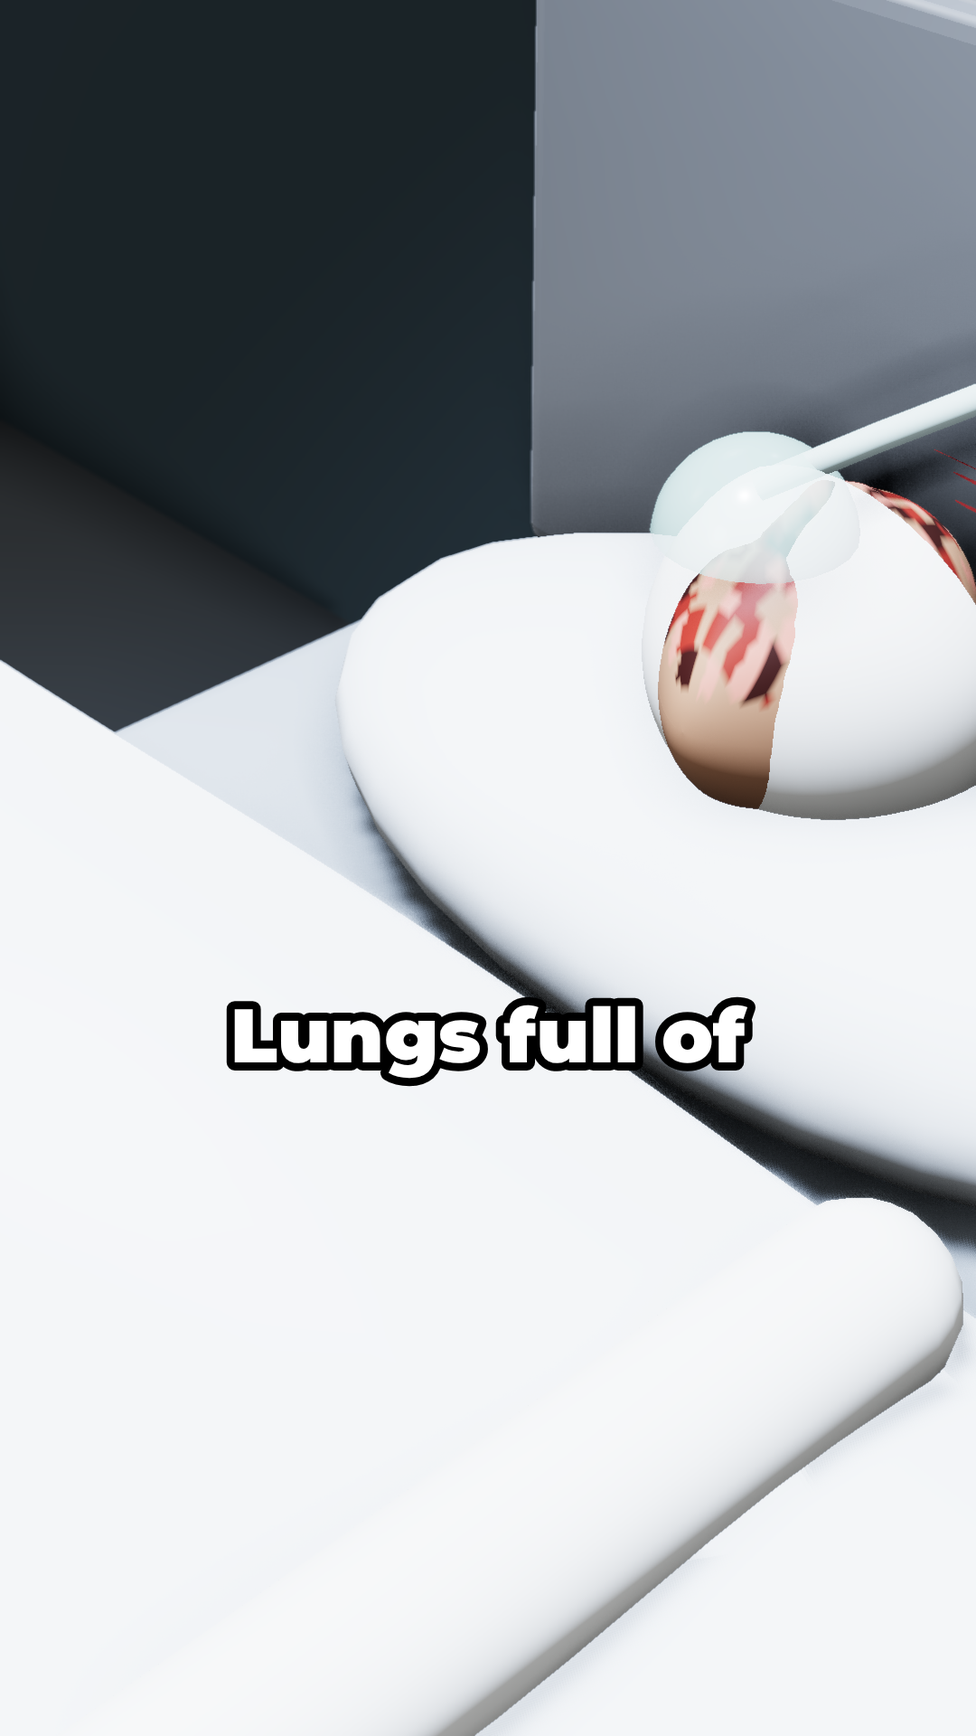
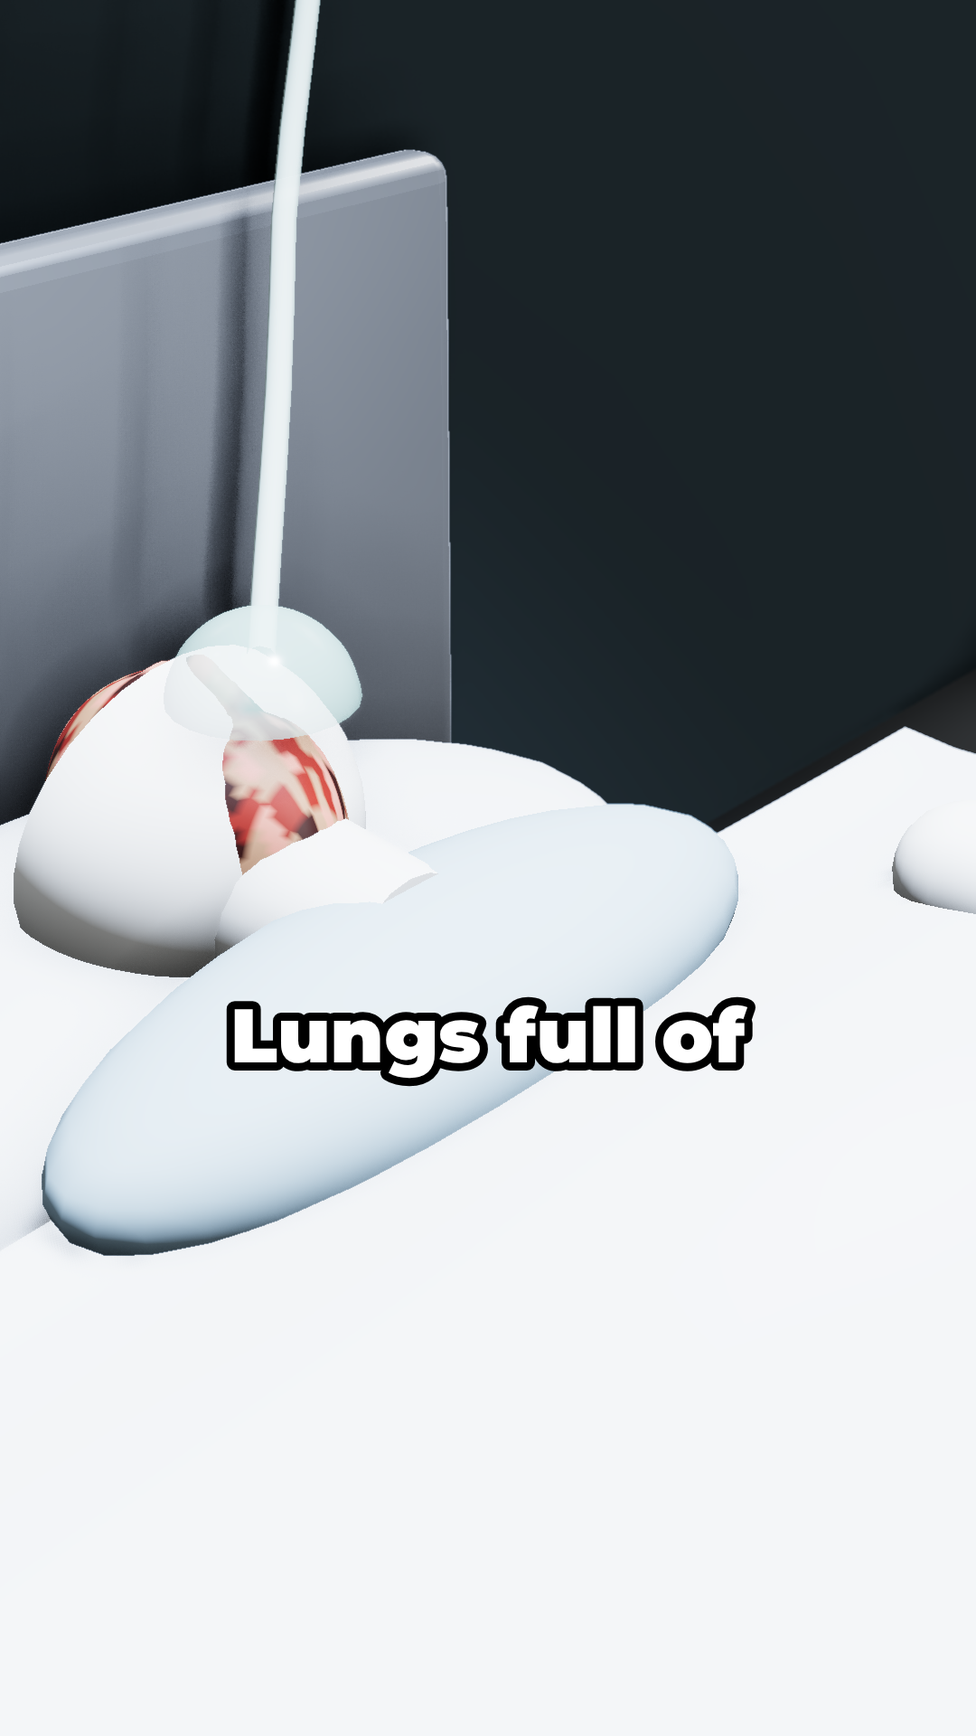
Lauda v3 storyboards: ground every figure, clearer rain and spray shots
Claude-Session: https://claude.ai/code/session_01NZ8nhbb7fFGrgoApo6xoS5

diff --git a/videos/lauda-v3-pixel/scene/shots.js b/videos/lauda-v3-pixel/scene/shots.js
@@ -26,27 +26,53 @@ function stormBackdrop(S, t, glow = true) {
   }
 }
 
-// A big head in a balaclava, eyes in the slit (burn scars around them after 1 August).
-function bigFace(S, cx, cy, t, { lookX = 0, down = 0, scars = true } = {}) {
-  const sp = new Sprite(110, 150);
-  sp.rect(10, 112, 90, 38, P.red); sp.rect(10, 112, 90, 3, P.redH); // suit shoulders
-  sp.rect(38, 104, 34, 12, P.white); // collar
-  sp.rect(42, 92, 26, 16, P.knit); // neck
-  sp.ellipse(55, 60, 33, 42, P.knit);
-  for (let y = 22; y < 100; y++) for (let x = 24; x < 88; x++) if (sp.get(x, y) === P.knit && (x + y * 3) % 7 === 0) sp.set(x, y, P.knitD); // knit texture
-  const ey = 52 + down;
-  sp.rect(30, ey - 7, 50, 14, P.skin); // eye slit
-  if (scars) for (let y = ey - 7; y < ey + 7; y++) for (let x = 30; x < 80; x++) {
+// The pit lane behind a close-up: garage fronts with warm lit doorways and the wet ground they
+// reflect in, so nothing in the foreground hangs in empty space.
+function pitBackdrop(S, t, horizon = 200) {
+  for (let y = 0; y < horizon; y++) for (let x = 0; x < LW; x++) {
+    let c = y < 26 ? (dith(x, y, 0.5) ? P.sky1 : P.sky0) : dith(x, y, 0.4) ? "#3a4048" : "#333940";
+    const bay = Math.floor(x / 44), bx = x % 44;
+    if (y > 26 && bx < 4) c = "#262b31"; // pillars
+    if (y > 64 && bx > 8 && bx < 40) c = dith(x, y, 0.55 + 0.2 * Math.sin(bay * 2.1)) ? "#7a5d3a" : "#4f3e2a"; // lit garage
+    if (y > 64 && bx > 18 && bx < 24 && y > horizon - 52 && bay % 2) c = "#1b1d22"; // a mechanic inside
+    S.px(x, y, c);
+  }
+  for (let y = horizon; y < LH; y++) for (let x = 0; x < LW; x++) {
+    const bx = x % 44, depth = (y - horizon) / (LH - horizon);
+    let c = dith(x, y, 0.25) ? P.wetHi : P.wet;
+    if (bx > 8 && bx < 40 && dith(x + ((y >> 1) & 1), y, 0.45 * (1 - depth))) c = "#5a4630"; // doorway light on the wet floor
+    S.px(x, y, c);
+  }
+  S.rect(0, horizon, LW, 1, "#4a525c");
+  S.dithRect(0, 0, LW, LH, P.ink, 0.22); // pushed back so the subject pops
+}
+
+// Head and shoulders filling the frame: balaclava, eyes in the slit (burn scars around them),
+// red suit running off the bottom edge.
+function bigFace(S, t, { lookX = 0, down = 0, scars = true } = {}) {
+  const sp = new Sprite(LW, LH);
+  sp.poly([[-4, 320], [10, 214], [46, 178], [134, 178], [170, 214], [184, 320]], P.red);
+  sp.poly([[46, 178], [134, 178], [150, 192], [30, 192]], P.redH);
+  sp.rect(89, 180, 2, 140, P.redD); // zip
+  sp.rect(32, 188, 24, 4, P.white); sp.rect(124, 188, 24, 4, P.white); // epaulettes
+  sp.rect(104, 222, 18, 8, P.white); // chest patch
+  sp.rect(66, 160, 48, 22, P.white); // collar
+  sp.rect(72, 138, 36, 26, P.knit); // neck
+  sp.ellipse(90, 96, 34, 44, P.knit);
+  for (let y = 52; y < 160; y++) for (let x = 54; x < 126; x++) if (sp.get(x, y) === P.knit && (x + y * 3) % 7 === 0) sp.set(x, y, P.knitD);
+  const ey = 88 + down;
+  sp.rect(56, ey - 9, 68, 18, P.skin);
+  if (scars) for (let y = ey - 9; y < ey + 9; y++) for (let x = 56; x < 124; x++) {
     const h = hash(Math.floor(x / 2), Math.floor(y / 2));
-    if (h < 0.22) sp.set(x, y, "#9e3326"); else if (h < 0.32) sp.set(x, y, "#d88a78");
+    if (h < 0.2) sp.set(x, y, "#9e3326"); else if (h < 0.3) sp.set(x, y, "#d88a78");
   }
-  for (const ex of [42, 67]) {
-    sp.ellipse(ex, ey, 6, 3, "#efe9e1");
-    sp.rect(ex - 2 + lookX, ey - 2, 4, 4, "#3a2a20"); sp.rect(ex - 1 + lookX, ey - 1, 2, 2, P.ink);
+  for (const ex of [74, 106]) {
+    sp.ellipse(ex, ey, 8, 4, "#efe9e1");
+    sp.rect(ex - 3 + lookX, ey - 3, 6, 6, "#3a2a20"); sp.rect(ex - 1 + lookX, ey - 1, 3, 3, P.ink);
     sp.set(ex + 1 + lookX, ey - 2, "#ffffff");
-    sp.rect(ex - 7, ey - 5, 14, 1, "#7a4a38"); // lid line
+    sp.rect(ex - 9, ey - 6, 18, 1, "#7a4a38");
   }
-  sp.outline(P.out).blit(S, cx - 55, cy - 60);
+  sp.outline(P.out).blit(S, 0, 0);
 }
 
 // Front-on helmet, big, with visor and stripe; flames reflect in the visor when fire > 0.
@@ -82,19 +108,27 @@ export function makeShots() {
   return {
     walkaway: (S, u, t) => pitsAt(S, u, t, [0, -5, -2, 99], 1),
     helmetHand(S, u, t) {
-      stormBackdrop(S, t);
-      const swing = Math.round(Math.sin(t * 5.5) * 5);
-      const glove = new Sprite(40, 40);
-      glove.thick(20, 0, 20 + swing / 2, 24, 7, P.red); // forearm in the suit
-      glove.rect(10, 22, 22, 14, P.coat); glove.rect(10, 22, 22, 2, P.coatHi);
-      for (let i = 0; i < 4; i++) glove.rect(10 + i * 5, 34, 4, 6, P.coat);
-      glove.outline(P.out).blit(S, 70 + swing, 18);
-      bigHelmetFront(S, 90 + swing, 104, t, { drops: 26 });
+      // waist height in the pit lane: his helmet hangs from his glove, boots on the wet ground
+      pitBackdrop(S, t, 284);
+      const swing = Math.round(Math.sin(t * 5.5) * 3);
+      const fig = new Sprite(LW, LH);
+      fig.rect(62, 0, 50, 118, P.red); fig.rect(62, 0, 4, 118, P.redH); fig.rect(62, 110, 50, 7, P.out); // torso and belt
+      fig.poly([[64, 118], [88, 118], [80, 272], [60, 272]], P.red); // front leg
+      fig.poly([[86, 118], [110, 118], [114, 272], [94, 272]], P.redD); // back leg
+      fig.rect(52, 272, 32, 12, P.out); fig.rect(92, 272, 28, 12, P.out); // boots
+      fig.thick(104, 4, 112 + swing, 160, 8, P.red); // arm hanging at his side
+      fig.rect(104, 8, 4, 140, P.redH);
+      fig.rect(103 + swing, 158, 20, 16, P.coat); fig.rect(103 + swing, 158, 20, 2, P.coatHi); // glove
+      fig.outline(P.out);
+      fig.reflect(S, 0, 0, P.wet, 0.5);
+      fig.blit(S, 0, 0);
+      helmetSprite(1.7, false).blit(S, 92 + swing, 170);
+      for (let i = 0; i < 14; i++) { const dx = 98 + swing + Math.floor(hash(i, 3) * 38), dy = 172 + Math.floor(hash(i, 9) * 30); S.px(dx, dy, P.rainHi); }
       rainSurface(S, t, 700);
     },
     faceLook(S, u, t) {
-      stormBackdrop(S, t);
-      bigFace(S, 90, 112, t, { lookX: Math.round(lerp(-3, 3, outCubic(u / 0.5))) });
+      pitBackdrop(S, t, 210);
+      bigFace(S, t, { lookX: Math.round(lerp(-3, 3, outCubic(u / 0.5))) });
       rainSurface(S, t, 650);
     },
     fujiWide: (S, u, t) => sc.fuji(S, lerp(0.15, 1.55, u / 2.6), { cue: cueOf([0, 99, 99]), t }),
@@ -109,22 +143,28 @@ export function makeShots() {
     scores: (S, u, t) => sc.fuji(S, 3.0 + u, { cue: cueOf([0, 3.15, 99]), t }),
     pitIn: (S, u, t) => pitsAt(S, u, t, [0, 0.55, 99, 99], 8),
     climbOut(S, u, t) {
-      stormBackdrop(S, t, false);
-      const car = new Sprite(LW, 120); // a big slice of the cockpit side
-      car.poly([[0, 60], [40, 44], [150, 40], [180, 46], [180, 100], [0, 100]], P.red);
+      // the car sits on the wet pit lane, wheels on the ground; he hauls himself out of the cockpit
+      pitBackdrop(S, t, 178);
+      const car = new Sprite(LW, 130);
+      car.poly([[0, 60], [40, 44], [150, 40], [180, 46], [180, 96], [0, 96]], P.red);
       car.rect(0, 92, 180, 8, P.redD); car.rect(30, 46, 140, 2, P.redH);
-      car.rect(60, 36, 64, 8, P.out); // cockpit opening
-      car.rect(126, 18, 4, 26, P.metal); car.rect(118, 18, 12, 3, P.metal); // roll hoop
-      car.circle(150, 74, 9, P.white); car.rect(149, 69, 2, 10, P.out); // roundel "1"
+      car.rect(60, 36, 64, 8, P.out);
+      car.rect(126, 18, 4, 26, P.metal); car.rect(118, 18, 12, 3, P.metal);
+      car.circle(150, 74, 9, P.white); car.rect(149, 69, 2, 10, P.out);
       car.rect(40, 62, 30, 10, P.out); for (let i = 0; i < 4; i++) car.rect(42, 63 + i * 2, 26, 1, P.metal);
+      car.circle(166, 76, 26, P.tyre); car.circle(166, 76, 10, P.grey); car.circle(166, 76, 3, P.metal); // rear wheel
+      car.circle(8, 80, 22, P.tyre); car.circle(8, 80, 8, P.grey); // front wheel
+      car.rect(150, 52, 4, 2, P.tyreHi);
+      car.outline(P.out);
       const rise = Math.round(lerp(34, 0, outCubic(u / 1.1)));
-      const d = new Sprite(70, 80); // Lauda hauling himself up, helmet still on
+      const d = new Sprite(70, 80);
       d.rect(18, 34, 34, 40, P.red); d.rect(18, 34, 34, 3, P.redH); d.rect(20, 60, 30, 3, P.out);
-      d.thick(18, 40, 4, 64, 5, P.red); d.thick(52, 40, 66, 62, 5, P.red); // arms pushing down
+      d.thick(18, 40, 4, 64, 5, P.red); d.thick(52, 40, 66, 62, 5, P.red);
       d.rect(0, 62, 9, 8, P.coat); d.rect(60, 60, 9, 8, P.coat);
       d.ellipse(35, 18, 16, 16, P.red); d.rect(20, 14, 30, 8, P.visor); d.rect(33, 2, 4, 12, P.white);
-      d.outline(P.out).blit(S, 58, 64 + rise, { clipBelow: 116 });
-      car.outline(P.out).blit(S, 0, 76);
+      d.outline(P.out).blit(S, 58, 64 + rise, { clipBelow: 118 });
+      car.reflect(S, 0, 76, P.wet, 0.5);
+      car.blit(S, 0, 76);
       rainSurface(S, t, 700);
     },
     stands: (S, u, t) => pitsAt(S, u, t, [0, -5, -0.9, 99], 300),
@@ -222,45 +262,90 @@ export function makeShots() {
     helmetOn: (S, u, t) => sc.monza(S, u * 0.95, { cue: cueOf([0, 2.6]), t }),
     fourth: (S, u, t) => sc.monza(S, u, { cue: cueOf([0, 0.15]), t }),
     forward(S, u, t) {
+      // fast-forward back to Japan: the tilt runs quickly, a few faint tape bands, ▶▶ OCT 24
       sc.fuji(S, 0.5 + u * 2.5, { cue: cueOf([0, 99, 99]), t });
       const fr = Math.floor(t * 30);
-      for (let k = 0; k < 40; k++) { const y = Math.floor(hash(k, fr) * LH); S.rect(0, y, LW, 1, k % 3 ? "#9aa6b3" : "#dfe6ee"); } // streaking ahead
-      S.dithRect(0, 0, LW, LH, "#1a2a5a", 0.2);
-      drawText(S, ">>", 140, 36, 2, P.paper, P.ink);
+      for (let k = 0; k < 4; k++) { const y = Math.floor(hash(k, fr >> 1) * LH); S.dithRect(0, y, LW, 2, "#dfe6ee", 0.35); }
+      drawText(S, ">>", 16, 36, 2, P.paper, P.ink);
+      drawText(S, "OCT 24", 164 - textWidth("OCT 24", 2), 36, 2, P.paper, P.ink);
     },
     rainHeavy(S, u, t) {
-      for (let y = 0; y < LH; y++) for (let x = 0; x < LW; x++) S.px(x, y, dith(x, y, 0.35 + Math.sin(x * 0.07 + y * 0.03) * 0.1) ? P.wetHi : P.wet);
-      for (let r = 30; r > 0; r--) for (let a = 0; a < 70; a++) { // red light reflected in the puddle
-        const gx = 120 + Math.cos(a / 70 * Math.PI * 2) * r * 1.6, gy = 80 + Math.sin(a / 70 * Math.PI * 2) * r * 0.5;
-        if (dith(Math.round(gx), Math.round(gy), 0.3 * (1 - r / 30))) S.px(gx, gy, P.lampGlow);
+      // Hunt's car tears past in a wall of spray; the rain comes down in sheets
+      fujiLow(S);
+      drawRival(S, u, -0.2, 1.3);
+      S.ctx.drawImage(fuji.fence, 0, -FUJI_CAM_LOW);
+      drawPitLight(S, t);
+      MECH.blit(S, 150, 256 - MECH.h);
+      S.oy = 0;
+      rainSurface(S, t, 900);
+      for (let i = 0; i < 260; i++) { // long sheeting streaks in front
+        const x = ((hash(i, 1) * 220 - t * 70) % 220 + 220) % 220 - 20, y = ((hash(i, 2) * 340 + t * 420) % 340) - 20;
+        for (let k = 0; k < 10; k++) S.px(x - k * 0.3, y + k, k < 3 ? P.rainHi : P.rain);
       }
       const fr = Math.floor(t * 30);
-      for (let i = 0; i < 90; i++) { // splash crowns and rings, big because we're close
-        const x = Math.floor(hash(i, fr >> 1) * LW), y = 20 + Math.floor(hash(i + 50, fr >> 1) * 170), age = (t * 4 + hash(i, 1)) % 1, r = Math.round(age * 6);
-        for (let a = 0; a < 16; a++) if (dith(x, y, 1 - age)) S.px(x + Math.cos(a / 16 * 6.28) * r * 1.6, y + Math.sin(a / 16 * 6.28) * r * 0.5, P.rainHi);
-        if (age < 0.3) { S.px(x, y - 2, P.rainHi); S.px(x - 1, y - 3, P.rain); S.px(x + 1, y - 3, P.rain); }
-      }
-      rainSurface(S, t, 900);
+      for (let i = 0; i < 120; i++) { const x = Math.floor(hash(i, fr >> 1) * LW), y = 130 + Math.floor(hash(i + 7, fr >> 1) * 180); S.px(x, y, P.rainHi); S.px(x - 1, y - 1, P.rain); S.px(x + 1, y - 1, P.rain); }
     },
     povSpray(S, u, t) {
-      for (let y = 0; y < LH; y++) for (let x = 0; x < LW; x++) S.px(x, y, dith(x + Math.floor(t * 20), y + Math.floor(t * 40), 0.55 + 0.25 * Math.sin(y * 0.05)) ? "#8a949e" : "#6a747e");
-      const tail = 0.5 + 0.5 * Math.sin(t * 8);
-      for (const tx of [84, 96]) { S.rect(tx, 88, 3, 2, P.lamp); for (let r = 1; r < 8; r++) for (let a = 0; a < 20; a++) if (dith(tx + Math.cos(a) * r, 89 + Math.sin(a) * r, 0.3 * tail * (1 - r / 8))) S.px(tx + Math.cos(a) * r, 89 + Math.sin(a) * r, P.lampGlow); }
-      const nose = new Sprite(LW, 140); // his own car's nose and front wheels, from the cockpit
-      nose.poly([[70, 140], [82, 40], [98, 40], [110, 140]], P.red);
-      nose.rect(86, 40, 8, 100, P.redH);
-      nose.poly([[20, 60], [160, 60], [170, 70], [10, 70]], P.redD); // front wing
-      nose.circle(26, 100, 26, P.tyre); nose.circle(154, 100, 26, P.tyre);
-      nose.circle(26, 100, 9, P.grey); nose.circle(154, 100, 9, P.grey);
-      nose.rect(0, 128, LW, 12, P.out); // cockpit rim
-      nose.outline(P.out).blit(S, 0, 100);
-      rainSurface(S, t, 900);
-      for (let i = 0; i < 18; i++) { const x = hash(i, 3) * LW, y = 20 + hash(i, 6) * 160; S.px(x, y, P.rainHi); S.px(x, y + 1, "#c9d2da"); } // drops on the visor
+      // from his seat: the track narrowing ahead, Hunt's car a shape in the spray, tail light glowing
+      for (let y = 0; y < LH; y++) for (let x = 0; x < LW; x++) S.px(x, y, dith(x, y, 0.4 + y / 600) ? "#7a848e" : "#6b7580");
+      const hy = 96; // horizon
+      for (let y = hy; y < LH; y++) {
+        const k = (y - hy) / (LH - hy), half = 8 + k * 150, scroll = (t * 9 + k * 3) % 1;
+        for (let x = 0; x < LW; x++) {
+          const dx = Math.abs(x - 90);
+          if (dx < half) S.px(x, y, dith(x, y, 0.3) ? "#4a5059" : "#3e444c");
+          if (Math.abs(dx - half) < 1 + k * 3) S.px(x, y, P.line); // edge lines
+        }
+        if ((k * 6 + scroll * 6) % 1 < 0.4 && k > 0.05) for (let x = 89 - k * 2; x <= 91 + k * 2; x++) S.px(x, y, P.whiteD); // centre dashes rushing at us
+      }
+      const car = new Sprite(46, 24); // Hunt's car from behind
+      car.rect(6, 0, 34, 4, P.white); car.rect(5, 0, 2, 9, P.greyD); car.rect(39, 0, 2, 9, P.greyD);
+      car.rect(16, 4, 14, 12, P.whiteD); car.rect(0, 10, 12, 14, P.tyre); car.rect(34, 10, 12, 14, P.tyre);
+      car.rect(20, 14, 6, 3, P.lamp);
+      car.outline(P.out).blit(S, 67, hy + 6);
+      for (let r = 9; r > 0; r--) for (let a = 0; a < 30; a++) if (dith(90 + Math.cos(a) * r * 1.6, hy + 21 + Math.sin(a) * r, 0.35 * (1 - r / 9) * (0.7 + 0.3 * Math.sin(t * 8)))) S.px(90 + Math.cos(a) * r * 1.6, hy + 21 + Math.sin(a) * r, P.lampGlow);
+      for (let i = 0; i < 2600; i++) { // the spray wall swallowing everything ahead
+        const x = hash(i, 1) * LW, y = 40 + hash(i, 2) * 150, d = 1 - Math.abs(y - 110) / 80;
+        if (dith(x + Math.floor(t * 30), y, 0.55 * d)) S.px(x, y, hash(i, 3) < 0.5 ? "#b9c1c9" : "#9aa4ae");
+      }
+      const nose = new Sprite(LW, 140);
+      nose.poly([[66, 140], [80, 50], [100, 50], [114, 140]], P.red); nose.rect(86, 50, 8, 90, P.redH);
+      nose.circle(90, 92, 6, P.white); nose.rect(89, 88, 2, 8, P.out);
+      nose.poly([[14, 70], [166, 70], [174, 80], [6, 80]], P.redD);
+      nose.circle(18, 116, 26, P.tyre); nose.circle(162, 116, 26, P.tyre);
+      nose.circle(18, 116, 9, P.grey); nose.circle(162, 116, 9, P.grey);
+      nose.outline(P.out).blit(S, 0, 186);
+      for (let y = 0; y < 14; y++) S.dithRect(0, y, LW, 1, P.ink, 0.9 - y * 0.06); // the top edge of his visor
+      rainSurface(S, t, 700);
+      for (let i = 0; i < 22; i++) { const x = hash(i, 3) * LW, y = 20 + hash(i, 6) * 170; S.px(x, y, P.rainHi); S.px(x, y + 1, "#c9d2da"); S.px(x + 1, y, "#c9d2da"); }
     },
     fireOnce(S, u, t) {
-      stormBackdrop(S, t);
-      bigHelmetFront(S, 90, 110, t, { fire: 0.6 + 0.4 * Math.sin(t * 7), drops: 34 });
-      rainSurface(S, t, 700);
+      // sat in the cockpit in the rain, seen from the front; flames flicker in his visor
+      pitBackdrop(S, t, 206);
+      const car = new Sprite(LW, LH);
+      car.rect(10, 150, 40, 62, P.tyre); car.rect(130, 150, 40, 62, P.tyre); // front tyres
+      for (let y = 154; y < 210; y += 6) { car.rect(12, y, 36, 1, P.tyreHi); car.rect(132, y, 36, 1, P.tyreHi); }
+      car.poly([[18, 198], [162, 198], [170, 210], [10, 210]], P.red); // front wing
+      car.rect(10, 188, 6, 24, P.greyD); car.rect(164, 188, 6, 24, P.greyD);
+      car.poly([[76, 204], [104, 204], [98, 140], [82, 140]], P.red); car.rect(88, 140, 4, 64, P.redH); // nose
+      car.circle(90, 178, 6, P.white); car.rect(89, 174, 2, 8, P.out);
+      car.poly([[52, 152], [128, 152], [120, 126], [60, 126]], P.red); // cockpit surround
+      car.rect(66, 126, 48, 6, P.out);
+      car.rect(46, 118, 12, 6, P.red); car.rect(122, 118, 12, 6, P.red); car.rect(56, 120, 6, 2, P.metal); car.rect(118, 120, 6, 2, P.metal); // mirrors
+      car.rect(70, 72, 40, 4, P.metal); car.rect(70, 72, 4, 30, P.metal); car.rect(106, 72, 4, 30, P.metal); // roll hoop behind him
+      car.ellipse(90, 104, 24, 24, P.red); car.ellipse(82, 92, 12, 7, P.redH); // helmet in the cockpit
+      car.rect(66, 98, 48, 14, P.visor); car.rect(70, 100, 14, 2, P.glint);
+      car.rect(88, 80, 4, 18, P.white);
+      car.outline(P.out);
+      car.reflect(S, 0, 0, P.wet, 0.5);
+      car.blit(S, 0, 0);
+      const fire = 0.6 + 0.4 * Math.sin(t * 7);
+      for (let x = 0; x < 44; x++) { // the memory of the flames, reflected in the visor
+        const h = (0.5 + 0.5 * hash(x, Math.floor(t * 15))) * 12 * fire;
+        for (let y = 0; y < h; y++) if (dith(x, y, 0.8 - y / 20)) S.px(68 + x, 111 - y, y < h * 0.4 ? P.flame1 : y < h * 0.8 ? P.flame2 : P.flame3);
+      }
+      for (let i = 0; i < 16; i++) S.px(68 + Math.floor(hash(i, 3) * 44), 82 + Math.floor(hash(i, 9) * 40), P.rainHi);
+      rainSurface(S, t, 760);
     },
     parks: (S, u, t) => pitsAt(S, u, t, [0, -1.0, 0.6, 99], 6),
     huntTitle(S, u, t) {
@@ -278,8 +363,8 @@ export function makeShots() {
     },
     onePoint: (S, u, t) => pitsAt(S, u, t, [0, -5, -3, 0], 3),
     worthMore(S, u, t) {
-      stormBackdrop(S, t);
-      bigFace(S, 90, 108, t, { lookX: -2, down: 2 });
+      pitBackdrop(S, t, 210);
+      bigFace(S, t, { lookX: -2, down: 3 });
       rainSurface(S, t, 760);
     },
     bravest: (S, u, t) => sc.end(S, 1.0 + u, { cue: cueOf([0, 0, 0.3]), t, dur: 99, pitsDur: { dur: 8, walkStart: 2, walkTotal: 9 } }),

diff --git a/videos/lauda-v3-3d/scene/sets.js b/videos/lauda-v3-3d/scene/sets.js
@@ -277,11 +277,11 @@ export function buildHospitalSet() {
   for (const [x, z] of [[-0.45, -1], [0.45, -1], [-0.45, 1], [0.45, 1]]) bed.add(shadowed(rod(new THREE.Vector3(x, 0, z), new THREE.Vector3(x, 0.62, z), 0.02, metal)));
   bed.add(shadowed(at(new THREE.Mesh(crease(rbox(1.0, 0.5, 0.05, 0.02)), metal), 0, 0.95, -1.05)));
   const sheetM = new THREE.MeshPhysicalMaterial({ color: "#dfe5ea", roughness: 0.85, sheen: 0.4 });
-  const sheet = new THREE.Mesh(new THREE.BoxGeometry(1.04, 0.16, 1.5, 20, 2, 40), sheetM);
+  const sheet = new THREE.Mesh(new THREE.BoxGeometry(1.04, 0.16, 1.67, 20, 2, 40), sheetM);
   const sp = sheet.geometry.attributes.position;
   for (let i = 0; i < sp.count; i++) if (sp.getY(i) > 0) sp.setY(i, sp.getY(i) + 0.08 * Math.exp(-(((sp.getZ(i) + 0.3) / 0.35) ** 2)) * Math.exp(-((sp.getX(i) / 0.3) ** 2)) + 0.01 * Math.sin(sp.getZ(i) * 18));
   sheet.geometry.computeVertexNormals();
-  bed.add(shadowed(at(sheet, 0, 0.78, 0.25)));
+  bed.add(shadowed(at(sheet, 0, 0.78, 0.215)));
   const pillow = at(new THREE.Mesh(new THREE.SphereGeometry(0.3, 32, 16), sheetM), 0, 0.78, -0.82); pillow.scale.set(1.3, 0.35, 0.75); bed.add(shadowed(pillow));
   // the patient: burned face under an oxygen mask, crown bandaged with blood seeping through
   const burnColor = (x, y, z) => {
@@ -299,6 +299,10 @@ export function buildHospitalSet() {
   const mask = at(new THREE.Mesh(new THREE.SphereGeometry(0.055, 24, 12, 0, Math.PI * 2, 0, 1.5), new THREE.MeshPhysicalMaterial({ color: "#a8cfc4", transparent: true, opacity: 0.6, roughness: 0.2 })), 0, 1.02, -0.72);
   bed.add(mask);
   bed.add(new THREE.Mesh(new THREE.TubeGeometry(new THREE.CatmullRomCurve3([new THREE.Vector3(0, 1.05, -0.72), new THREE.Vector3(0.2, 1.2, -0.9), new THREE.Vector3(0.5, 1.6, -1.2), new THREE.Vector3(0.7, 2.1, -2.9)]), 40, 0.008, 8), new THREE.MeshPhysicalMaterial({ color: "#c9e2db", transparent: true, opacity: 0.7 })));
+  // neck and shoulders joining the head to the body under the sheet, in a hospital gown
+  const gown = new THREE.MeshPhysicalMaterial({ color: "#9fb7c4", roughness: 0.9, sheen: 0.3 });
+  const shoulders = at(new THREE.Mesh(new THREE.SphereGeometry(1, 32, 16), gown), 0, 0.87, -0.6); shoulders.scale.set(0.26, 0.075, 0.1); bed.add(shadowed(shoulders));
+  const neck = at(new THREE.Mesh(new THREE.CylinderGeometry(0.05, 0.06, 0.12, 20), gauze), 0, 0.9, -0.67); neck.rotation.x = Math.PI / 2; bed.add(shadowed(neck));
   const arm = at(new THREE.Mesh(new THREE.CapsuleGeometry(0.045, 0.5, 6, 16), gauze), 0.32, 0.88, -0.2); arm.rotation.x = Math.PI / 2; bed.add(shadowed(arm));
   const hand = at(new THREE.Mesh(new THREE.SphereGeometry(0.05, 16, 12), new THREE.MeshStandardMaterial({ color: "#8e2a1f", roughness: 0.6 })), 0.32, 0.88, 0.1); hand.scale.set(1, 0.6, 1.4); bed.add(hand);
   bed.position.set(0.6, 0, -1.4); set.add(bed);

diff --git a/videos/lauda-v3-3d/scene/film3d.js b/videos/lauda-v3-3d/scene/film3d.js
@@ -156,7 +156,7 @@ export async function createFilm(out) {
       ring.runners.forEach((p, i) => { p.visible = true; const k = clamp01(u / 1.6 + i * 0.12); p.position.set(lerp(1 + i, -2.4 + i * 0.6, k), 0, lerp(212 + i * 2, 202 + i * 0.8, k)); p.rotation.y = Math.atan2(-3.4, -10) + Math.PI; p.position.y = Math.abs(Math.sin(t * 9 + i)) * 0.05; });
       return hold(V(RING_X + 6.5, 2.1, 214), V(RING_X - 2.2, 0.8, 202), 40);
     }],
-    burned: ["hosp", (u, t) => { drawECG(0, t, 52); const h = V(HOSP_X + 0.6, 0.95, -2.18); return { pos: h.clone().add(V(0.85 - u * 0.05, 0.75, 1.0)), look: h.clone().add(V(0, -0.05, 0.25)), fov: 36, focus: true, aperture: 0.003 }; }],
+    burned: ["hosp", (u, t) => { drawECG(0, t, 52); const h = V(HOSP_X + 0.6, 0.95, -2.18); return { pos: h.clone().add(V(-0.85 + u * 0.04, 0.62, 0.95)), look: h.clone().add(V(0.12, -0.06, 0.12)), fov: 40, focus: true, aperture: 0.002 }; }],
     lungs: ["hosp", (u, t) => { drawECG(0, t, 108, 0.9); return { pos: V(HOSP_X - 2.25 - u * 0.15, 2.0, -0.45), look: V(HOSP_X - 3.95, 2.0, -0.5), fov: 40, focus: false }; }],
     doctors: ["hosp", (u, t) => { drawECG(0, t, 118, 1.0); hosp.alarm.intensity = Math.floor(t * 4) % 2 ? 20 : 2; hosp.doctors.forEach((d) => (d.visible = true)); return hold(V(HOSP_X + 3.6, 1.9, 1.4), V(HOSP_X + 0.7, 0.95, -1.6), 40); }],
     fortyTwo: ["hosp", (u, t) => { drawECG(0, t, 72); hosp.daylight.material.opacity = (Math.sin(t * 22) * 0.5 + 0.5) * 0.85; return hold(V(HOSP_X - 0.1, 1.35, 0.6), V(HOSP_X - 2.2, 1.6, -2.9), 40); }, "days"],

diff --git a/videos/lauda-v3-pixel/scene/scenes.js b/videos/lauda-v3-pixel/scene/scenes.js
@@ -467,11 +467,14 @@ export function makeScenes() {
       const finish = cue(1) - 0.15;
       if (u < finish) {
         // close-up: balaclava, a fresh stain at the temple, gloves pulling the helmet down
-        for (let y = 0; y < LH; y++) for (let x = 0; x < LW; x++) S.px(x, y, dith(x, y, y / 260) ? P.blue2 : P.blue1);
+        blitBg(S, monza); // the Monza paddock behind him, softened so he stands out
+        S.dithRect(0, 0, LW, LH, P.blue1, 0.35);
         const bust = new Sprite(LW, LH);
-        bust.poly([[34, 212], [52, 146], [128, 146], [146, 212]], P.red);
+        bust.poly([[2, 320], [4, 196], [22, 164], [52, 146], [128, 146], [158, 164], [176, 196], [178, 320]], P.red); // shoulders and chest, running off the bottom of frame
         bust.poly([[52, 146], [72, 140], [108, 140], [128, 146], [124, 154], [56, 154]], P.redH);
-        bust.rect(84, 150, 2, 60, P.redD);
+        bust.rect(89, 150, 2, 170, P.redD); // zip
+        bust.rect(30, 170, 18, 4, P.white); bust.rect(132, 170, 18, 4, P.white); // epaulettes
+        bust.rect(106, 196, 16, 7, P.white); // chest patch
         bust.rect(70, 168, 12, 5, P.white);
         bust.rect(78, 126, 24, 16, P.knit);
         bust.ellipse(90, 104, 19, 22, P.knit);
